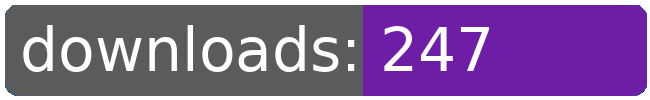
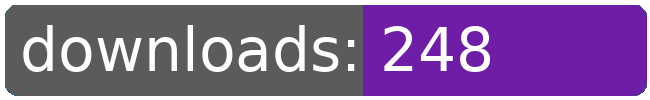
dl log written

Changed region(s): [[0.7077, 0.24, 0.7692, 0.72]]

diff --git a/README.md b/README.md
@@ -21,8 +21,8 @@
 		<td>168</td>
 		<td>205</td>
 		<td>237</td>
-		<td>247</td>
-		<td>+ 10</td>
+		<td>248</td>
+		<td>+ 11</td>
 	</tr>
 	<tr>
 		<td>aberrant.kahet.outfitter</td>
@@ -186,8 +186,8 @@
 		<td></td>
 		<td></td>
 		<td></td>
-		<td>2736</td>
-		<td>144</td>
+		<td>2737</td>
+		<td>145</td>
 	</tr>
 </table>
 </sub></sup>
@@ -278,8 +278,8 @@
 		<td>168</td>
 		<td>205</td>
 		<td>237</td>
-		<td>247</td>
-		<td>+ 10</td>
+		<td>248</td>
+		<td>+ 11</td>
 	</tr>
 	<tr>
 		<td>tributequarg</td>
@@ -377,8 +377,8 @@
 		<td></td>
 		<td></td>
 		<td></td>
-		<td>2736</td>
-		<td>144</td>
+		<td>2737</td>
+		<td>145</td>
 	</tr>
 </table>
 </sub></sup>
